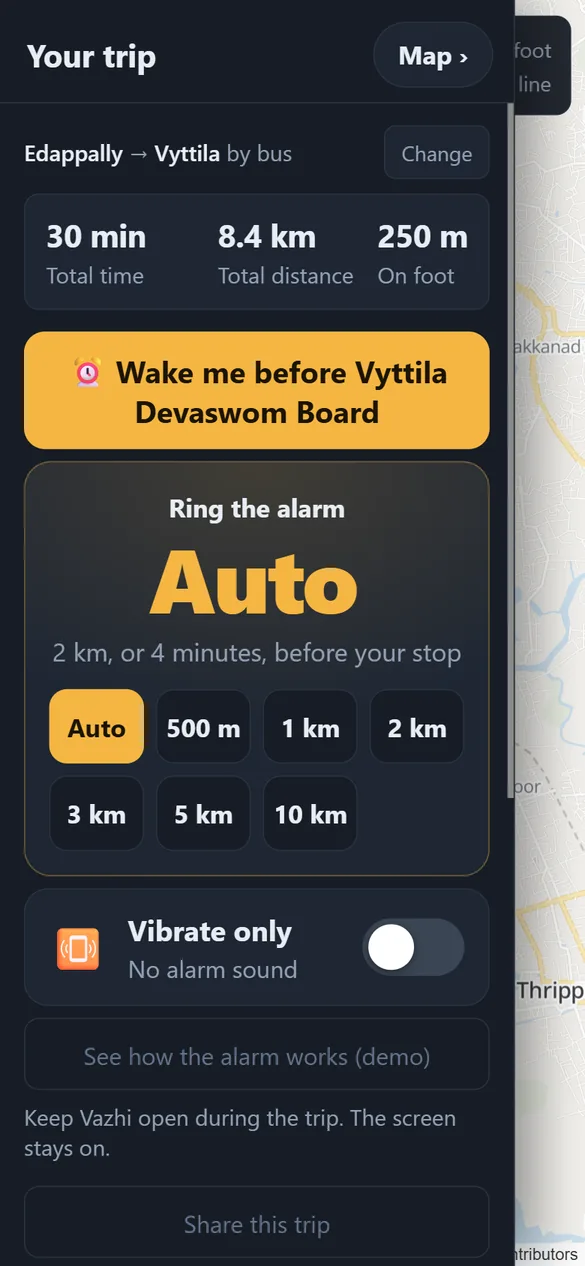
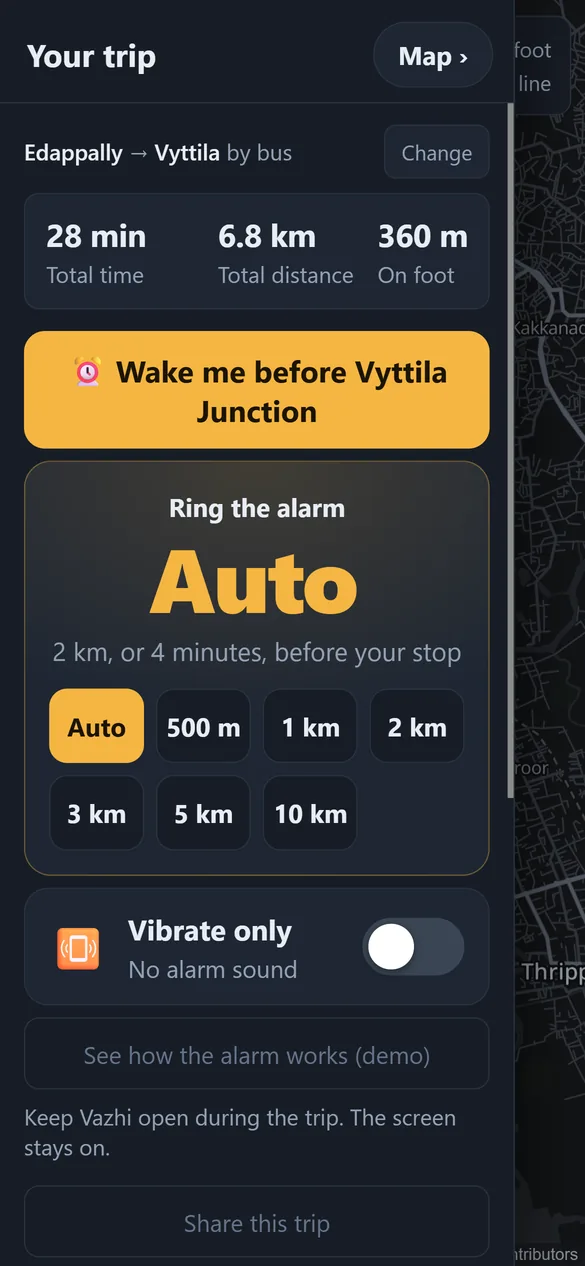
Website: screenshots with the dark map
Re-took all six app screenshots (Edappally to Vyttila by bus) now that the
map is dark, and updated the trip details the page quotes to match. The
laptop drawing's base no longer pokes 2 px past a phone screen.

diff --git a/web/home.html b/web/home.html
@@ -64,7 +64,7 @@
       <div class="phone phone--back"><img src="site/phone-route.webp" alt="" width="585" height="1266" /></div>
       <div class="phone phone--front"><img src="site/phone-alarm.webp" alt="" width="585" height="1266" /></div>
       <div class="bubble bubble--one"><span>⏰</span><div><b>Vyttila in 2 km</b>Get ready to get off</div></div>
-      <div class="bubble bubble--two"><span class="bubble__bus"></span><div><b>Bus · 30 min</b>Edappally → Vyttila</div></div>
+      <div class="bubble bubble--two"><span class="bubble__bus"></span><div><b>Bus · 28 min</b>Edappally → Vyttila</div></div>
     </div>
   </div>
 </section>
@@ -182,13 +182,13 @@
         <p>Your location is the start. Type the destination, or tap it on the map.</p>
       </li>
       <li class="step">
-        <div class="phone phone--flat"><img src="site/phone-steps.webp" alt="A planned trip in Vazhi: walk 80 m to Edappally Junction, bus 8.1 km to Vyttila Devaswom Board with 15 stops, walk 170 m" width="585" height="1266" loading="lazy" /></div>
+        <div class="phone phone--flat"><img src="site/phone-steps.webp" alt="A planned trip in Vazhi: walk 220 m to Edappally Junction, bus 6.4 km to Vyttila Junction with 13 stops, walk 140 m" width="585" height="1266" loading="lazy" /></div>
         <span class="step__n">2</span>
         <h3>Pick bus, train or metro</h3>
         <p>See where to walk, which stop to get on at, every stop on the way and how long it takes.</p>
       </li>
       <li class="step">
-        <div class="phone phone--flat"><img src="site/phone-alarm.webp" alt="Vazhi's alarm going off: Wake up — your stop is coming. Vyttila Devaswom Board is 2.0 km away, about 7 min. Button: I'm awake" width="585" height="1266" loading="lazy" /></div>
+        <div class="phone phone--flat"><img src="site/phone-alarm.webp" alt="Vazhi's alarm going off: Wake up — your stop is coming. Vyttila Junction is 2.0 km away, about 8 min. Button: I'm awake" width="585" height="1266" loading="lazy" /></div>
         <span class="step__n">3</span>
         <h3>Tap "Wake me before my stop"</h3>
         <p>Put the phone in your pocket. Vazhi rings when your stop is near.</p>

diff --git a/web/home.css b/web/home.css
@@ -249,7 +249,7 @@ p { margin: 0; }
 .laptop__screen { padding: 10px; border-radius: 16px 16px 4px 4px; background: #05070a; border: 1px solid #2c3644;
                   box-shadow: 0 30px 80px rgba(0,0,0,.5); }
 .laptop__screen img { border-radius: 6px; width: 100%; }
-.laptop__base { height: 14px; margin: 0 -5%; border-radius: 0 0 16px 16px;
+.laptop__base { height: 14px; margin: 0 -2%; border-radius: 0 0 16px 16px;
                 background: linear-gradient(#2a3341, #161c25); box-shadow: 0 12px 30px rgba(0,0,0,.4); }
 @media (min-width: 960px) { .bigscreen { grid-template-columns: .8fr 1.2fr; gap: 64px; } }
 
